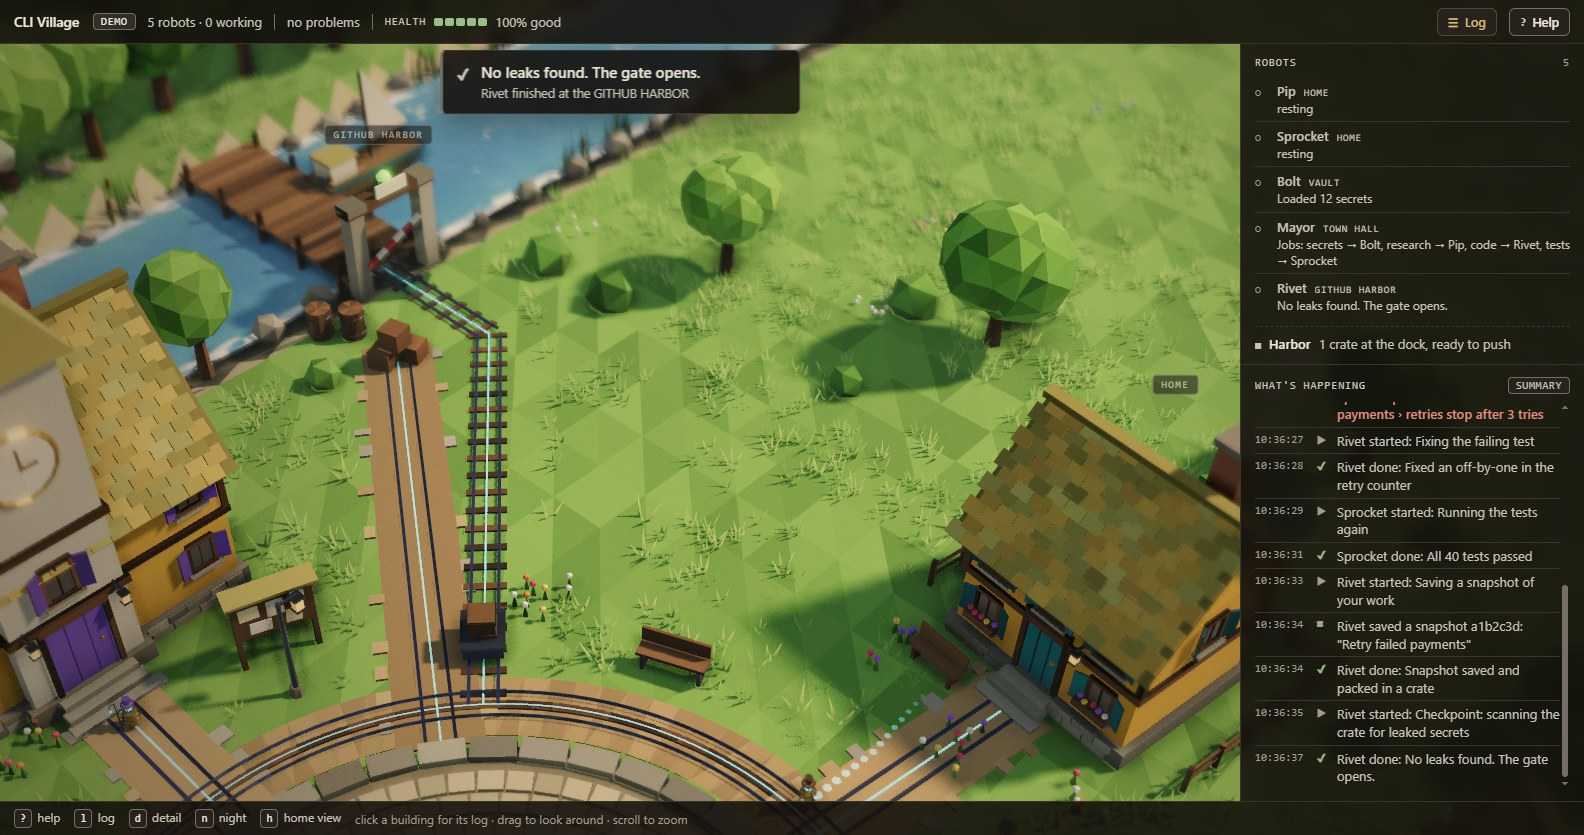
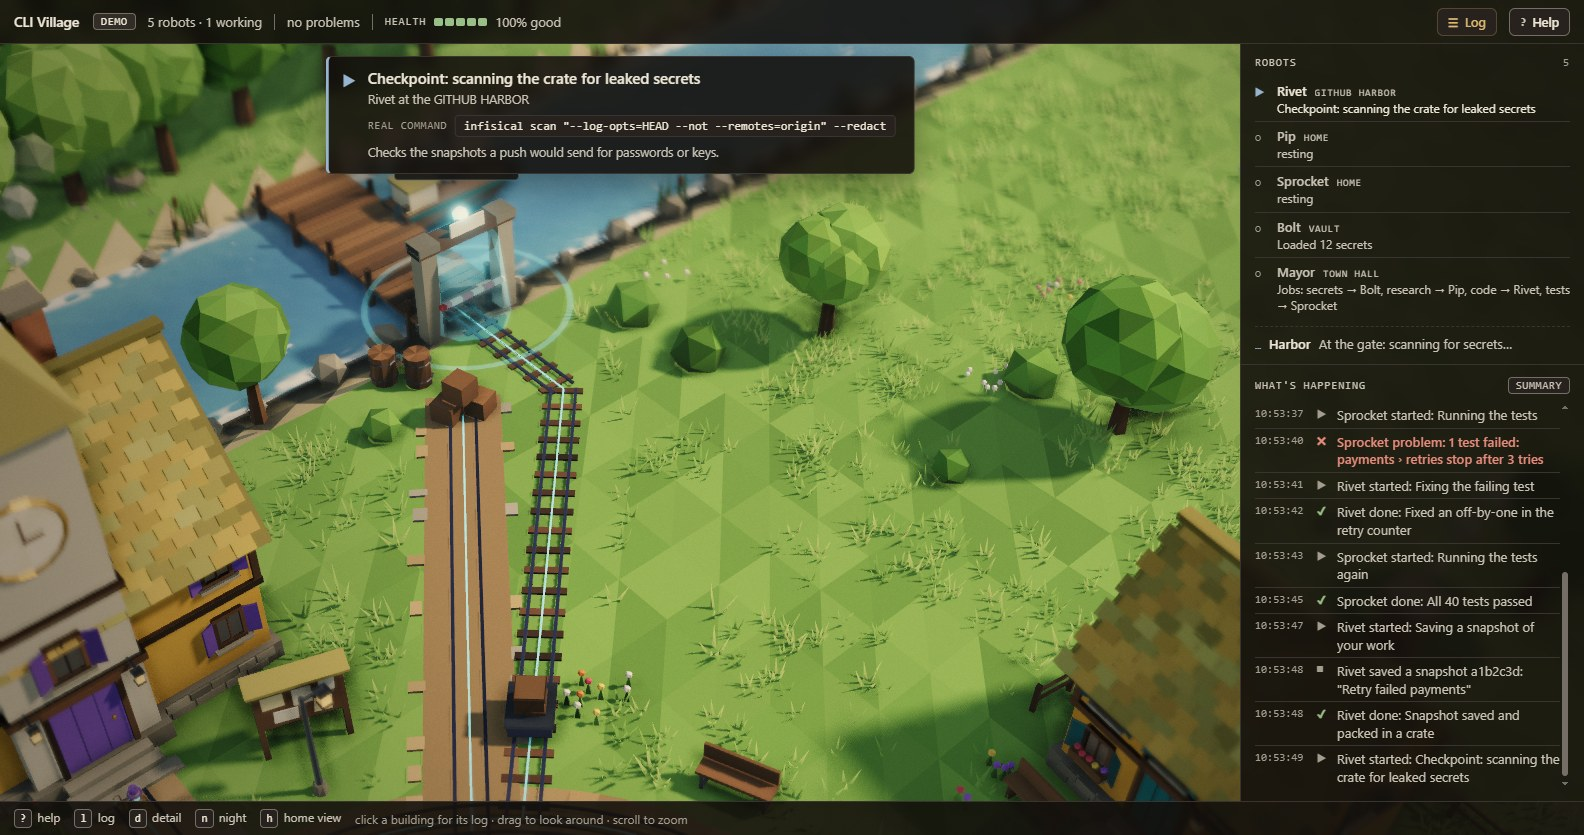
Docs: grass counted, and the README's first picture at the checkpoint
- Counted the blades: the first layer has about 16,000 and the extra
  layer adds about 30,000, so Medium and High have three times the
  grass, not twice. RENDERING.md and the CHANGELOG now say so.
- The README's first picture had caught the moment after the scan; it
  is retaken during the secret-scan checkpoint, with the real command,
  as before.

diff --git a/CHANGELOG.md b/CHANGELOG.md
@@ -4,7 +4,7 @@ What changed in CLI Village, newest first. Each step was built and merged as its
 
 ## Unreleased
 
-- **Step 25:** nature details ([docs/RENDERING.md](docs/RENDERING.md#nature-details-naturets)): grass across the meadows and along the paths and buildings (twice as thick on Medium and High), with dark roots and light tips, wildflowers in soft colours, mossy boulders with pebbles, reeds and cattails along both river banks, and low wooden fences round the cottage gardens (open at the front, where the robots walk). The rest of the village is exactly as before.
+- **Step 25:** nature details ([docs/RENDERING.md](docs/RENDERING.md#nature-details-naturets)): grass across the meadows and along the paths and buildings (three times as thick on Medium and High), with dark roots and light tips, wildflowers in soft colours, mossy boulders with pebbles, reeds and cattails along both river banks, and low wooden fences round the cottage gardens (open at the front, where the robots walk). The rest of the village is exactly as before.
 - **Step 24:** a new night, designed from how film, painting and games show moonlight ([docs/RENDERING.md](docs/RENDERING.md#the-night)):
   - a slate-blue moonlit night instead of a dark green one: night vision fades dim colours toward slate blue while the lamps stay warm;
   - shadows that keep their shape (moonlight to fill about 4:1 instead of 9:1), never black;

diff --git a/docs/RENDERING.md b/docs/RENDERING.md
@@ -127,7 +127,7 @@ The shadow pass uses a depth material with the same displacement, so shadows swa
 
 Grass, wildflowers, mossy boulders, reeds and garden fences, placed from their own random numbers (so nothing else in the village moves) and kept clear of the plaza, paths, rails, buildings, props, trees and river. Grass grows in patches, thicker where a smooth "lushness" pattern says so, and along the edges where nobody walks: beside the paths and round the buildings' feet.
 
-On Medium and High a second layer of grass, with its own random numbers, fills the meadows out (about twice as much). Low keeps only the first, so the rest of the village is the same either way.
+On Medium and High a second layer of grass, with its own random numbers, fills the meadows out: about 30,000 more blades on top of the first 16,000, so three times the grass. Low keeps only the first, so the rest of the village is the same either way.
 
 Three tricks keep the tens of thousands of blades cheap and in the style:
 - **Blades go straight into one buffer.** A blade is a thin three-sided spike, three triangles, darker at the root and lighter at the tip, written as numbers. With a shape object and a matrix per blade, building the grass took over half a second at start-up.
